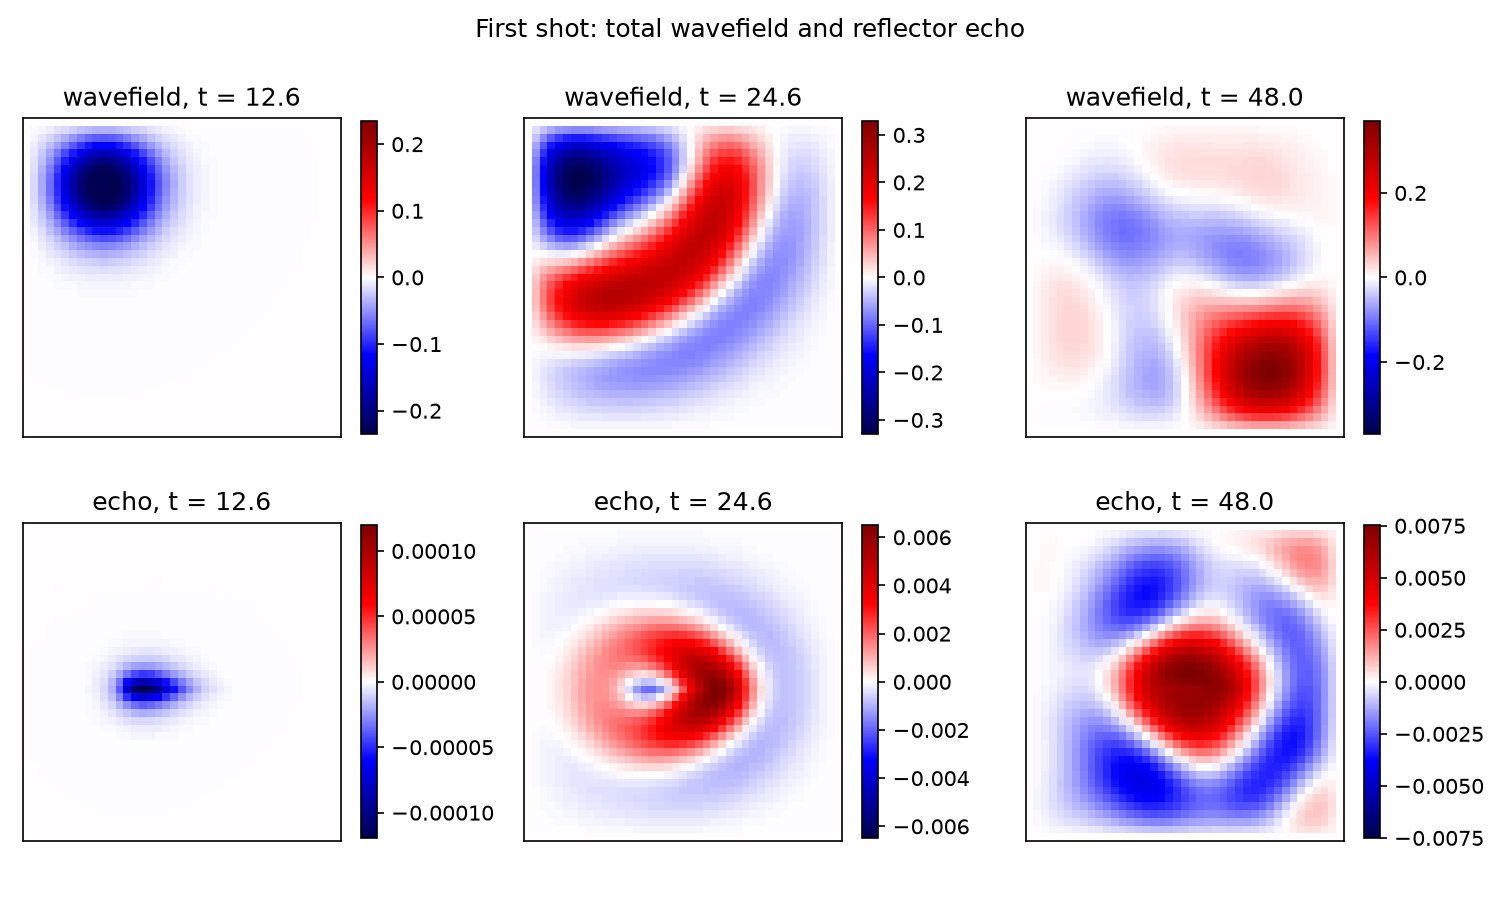
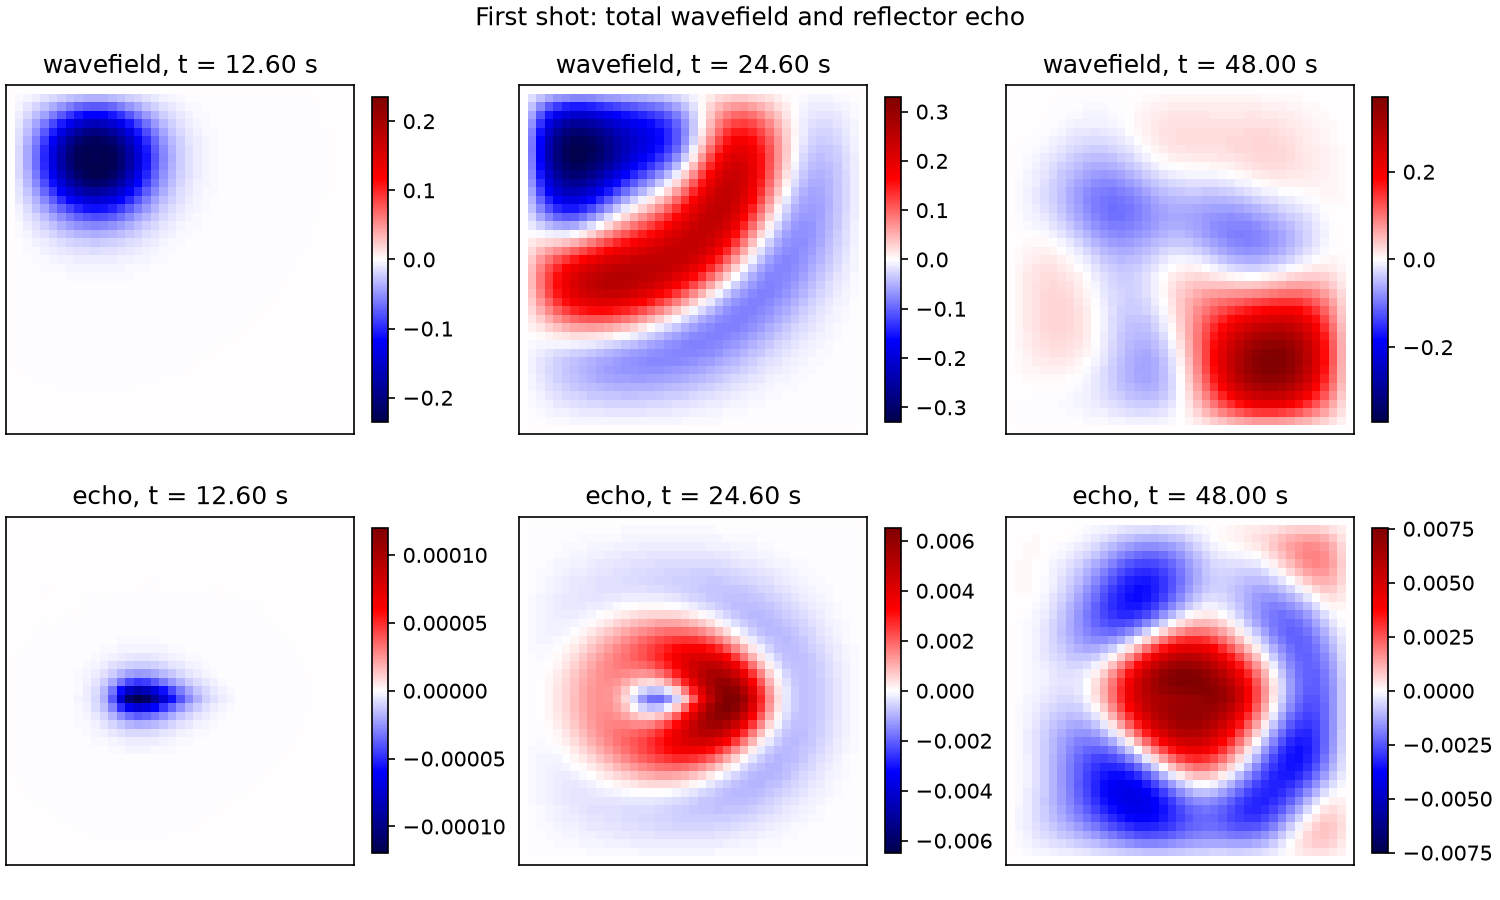
week5: plot gathers in physical units and report trace statistics
One gather per shot with receiver position in kilometres across, time in
seconds down, and pressure as colour, all shots on one pressure scale.
plot_forward.py also prints the L2 norm of all traces and each shot's
largest absolute pressure with its trace index and receiver, and the
wavefield/echo panels now label time in seconds.

diff --git a/week5/scripts/plot_forward.py b/week5/scripts/plot_forward.py
@@ -1,9 +1,14 @@
 #!/usr/bin/env python3
-"""Plot the forward run's gather, wavefield, and echo.
+"""Plot the forward run's receiver gathers, wavefield, and echo.
 
-Reads artifacts/forward/*.npy, writes gathers.png, wavefield.png, and
-echo.png there. Run from week5/.
+One gather per shot: receiver position in kilometres across, time in seconds
+down, pressure as colour. Also prints the L2 norm of all traces and each
+shot's largest absolute pressure with its trace index and receiver.
+
+Reads artifacts/forward, writes gathers.png and wavefield.png there.
+Run from week5/.
 """
+import json
 from pathlib import Path
 
 import matplotlib
@@ -16,53 +21,87 @@ ROOT = Path(__file__).resolve().parents[1]
 OUT = ROOT / "artifacts" / "forward"
 
 
-def main():
-    import json
+def cell_edges(centres):
+    """Cell edges of uniformly or sparsely spaced centres, for pcolormesh."""
+    centres = np.asarray(centres, dtype=float)
+    if centres.size == 1:
+        return np.array([centres[0] - 0.5, centres[0] + 0.5])
+    mid = 0.5 * (centres[1:] + centres[:-1])
+    return np.concatenate(
+        ([centres[0] - (mid[0] - centres[0])], mid, [centres[-1] + (centres[-1] - mid[-1])])
+    )
 
-    run = json.loads((OUT / "run.json").read_text())
-    traces = np.load(OUT / "traces.npy")
-    wavefield = np.load(OUT / "wavefield.npy")
-    echo = np.load(OUT / "echo.npy")
-    dt = run["experiment"]["dt"]
-    times = np.asarray(run["recording"]["times"])
 
-    # Gathers: one panel per shot, receiver axis across, time down.
-    fig, axes = plt.subplots(1, traces.shape[0], figsize=(9, 5), sharey=True)
-    t = np.arange(traces.shape[1]) * dt
+def plot_gathers(exp, traces):
+    """One shot gather per shot, positions in km and time in seconds."""
+    receivers = np.asarray(exp["receivers"], dtype=float)
+    x = receivers[:, 0] * exp["dx"] * exp["length_unit_m"] / 1000.0
+    # Row n holds u^{n+1}, the pressure after step n+1, at time (n+1) dt.
+    times = (np.arange(traces.shape[1]) + 1) * exp["dt"] * exp["time_unit_s"]
+    x_edges, t_edges = cell_edges(x), cell_edges(times)
+
+    n_shots = traces.shape[0]
+    fig, axes = plt.subplots(
+        1, n_shots, figsize=(4.4 * n_shots, 5.2), sharey=True, constrained_layout=True
+    )
+    scale = float(np.abs(traces).max())
     for shot, ax in enumerate(axes):
-        im = ax.imshow(
-            traces[shot],
-            aspect="auto",
-            origin="upper",
-            extent=[0, traces.shape[2] - 1, t[-1], t[0]],
-            cmap="seismic",
+        mesh = ax.pcolormesh(
+            x_edges, t_edges, traces[shot], cmap="seismic", vmin=-scale, vmax=scale
         )
-        ax.set_xlabel("receiver index")
+        ax.set_ylim(t_edges[-1], t_edges[0])  # time increases downwards
+        ax.set_xlabel("receiver position (km)")
         ax.set_title(f"shot {shot}")
-        fig.colorbar(im, ax=ax, shrink=0.8, label="pressure")
-    axes[0].set_ylabel("time (units)")
-    fig.suptitle("Forward gathers (background model)")
-    fig.tight_layout()
+        fig.colorbar(mesh, ax=ax, shrink=0.85, pad=0.02, label="pressure")
+    axes[0].set_ylabel("time (s)")
+    fig.suptitle("Forward receiver gathers (background model)")
     fig.savefig(OUT / "gathers.png", dpi=150)
     plt.close(fig)
 
-    # Wavefield and echo at three frames.
+
+def report(exp, traces):
+    """L2 norm of all traces, and each shot's largest absolute pressure."""
+    norm = float(np.sqrt((traces**2).sum()))
+    print(f"L2 norm of all traces: {norm:.12e}")
+    for shot in range(traces.shape[0]):
+        flat = np.abs(traces[shot]).reshape(-1)
+        index = int(flat.argmax())
+        trace, receiver = divmod(index, traces.shape[2])
+        position = exp["receivers"][receiver][0] * exp["dx"] * exp["length_unit_m"] / 1000.0
+        print(
+            f"shot {shot}: max |p| = {traces[shot, trace, receiver]:.12e} "
+            f"at trace index {trace}, receiver {receiver} (x = {position:.2f} km)"
+        )
+
+
+def plot_wavefield(run, wavefield, echo):
+    """The first shot's total wavefield and its reflector echo at three times."""
+    times = np.asarray(run["recording"]["times"])
     frames = [len(times) // 4, len(times) // 2, -1]
-    fig, axes = plt.subplots(2, len(frames), figsize=(10, 6))
+    fig, axes = plt.subplots(2, len(frames), figsize=(10, 6), constrained_layout=True)
     for col, frame in enumerate(frames):
         for row, (field, label) in enumerate([(wavefield, "wavefield"), (echo, "echo")]):
             ax = axes[row, col]
             scale = np.abs(field[frame]).max()
             im = ax.imshow(field[frame], cmap="seismic", vmin=-scale, vmax=scale)
-            ax.set_title(f"{label}, t = {times[frame]:.1f}")
+            ax.set_title(f"{label}, t = {times[frame]:.2f} s")
             ax.set_xticks([])
             ax.set_yticks([])
             fig.colorbar(im, ax=ax, shrink=0.8)
     fig.suptitle("First shot: total wavefield and reflector echo")
-    fig.tight_layout()
     fig.savefig(OUT / "wavefield.png", dpi=150)
     plt.close(fig)
 
+
+def main():
+    run = json.loads((OUT / "run.json").read_text())
+    traces = np.load(OUT / "traces.npy")
+    wavefield = np.load(OUT / "wavefield.npy")
+    echo = np.load(OUT / "echo.npy")
+
+    report(run["experiment"], traces)
+    plot_gathers(run["experiment"], traces)
+    plot_wavefield(run, wavefield, echo)
     print(f"wrote {OUT}/gathers.png and {OUT}/wavefield.png")
 
 
